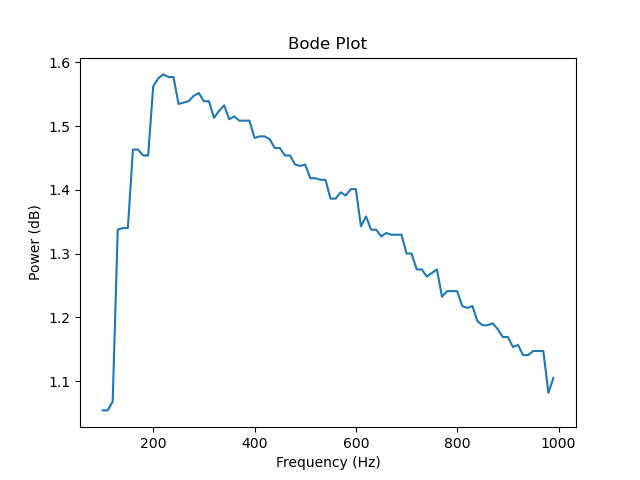
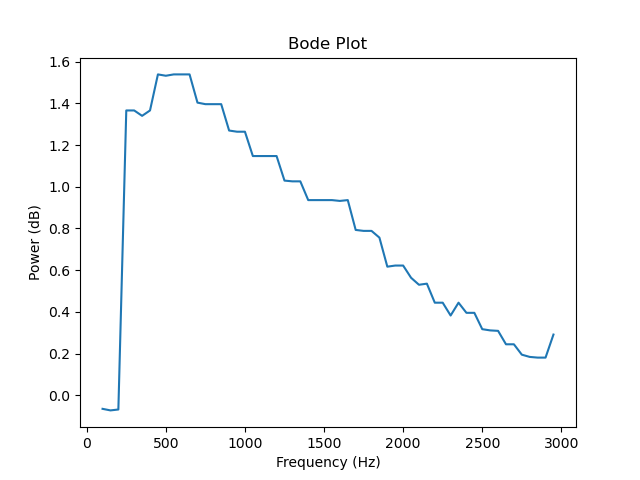
best looking graph

diff --git a/report1.py b/report1.py
@@ -75,7 +75,7 @@ func_gen_socket = connect_to_device(FUNC_GEN_IP, PORT)
 #set_frequency(func_gen_socket, frequency)
 #get_amplitude(scope_socket)
 
-data = bode_data(func_gen_socket, scope_socket, 100, 1000, 10)
+data = bode_data(func_gen_socket, scope_socket, 100, 3000, 25)
 
 plot_bode(data)
 
